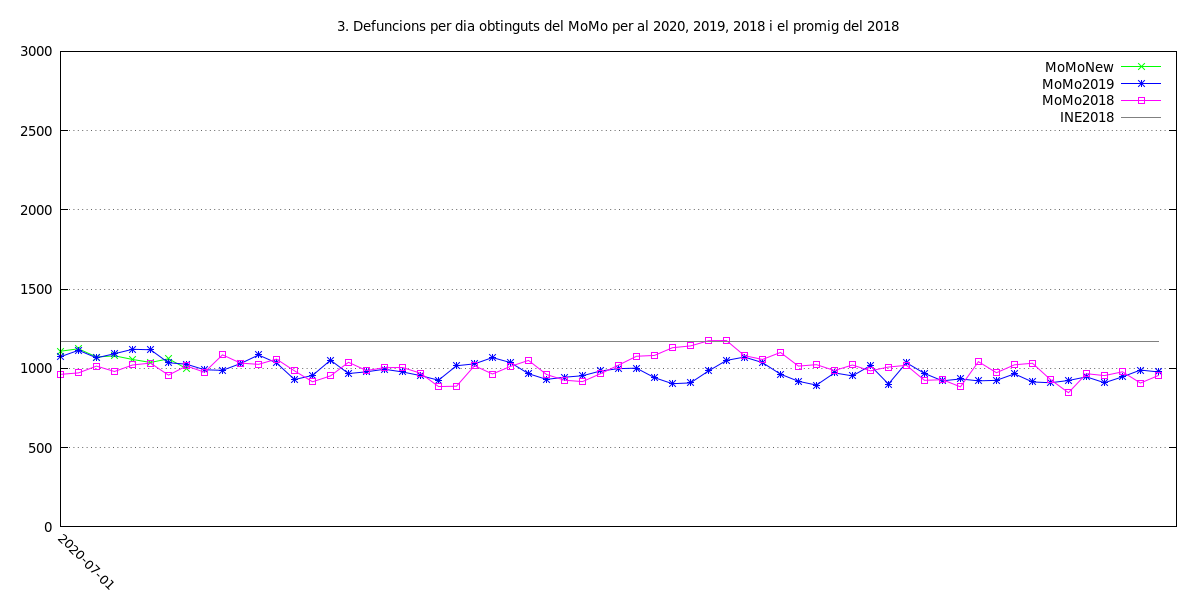
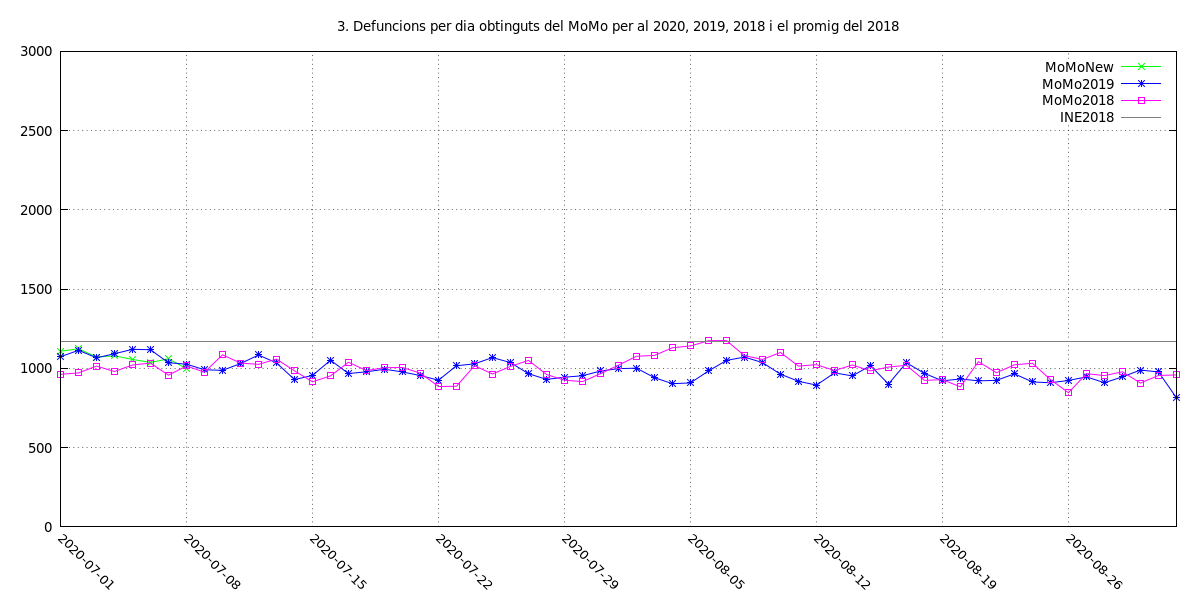
Arreglar un bug amb el tema canvi d'horari d'estiu + pintar els xtics correctament

diff --git a/program.php b/program.php
@@ -979,8 +979,9 @@ if(!file_exists("output/plot3${lang}1.png")) {
 	$momonew=import_file("middle/datanew-ok2.csv");
 	$otros=import_file("middle/7947-ok.csv");
 	$matrix=array();
-	for($i=strtotime("2020-01-01 12:00:00");$i<strtotime("2020-09-01");$i+=86400) {
+	for($i=strtotime("2020-01-01 12:00:00");$i<=strtotime("2020-09-01 12:00:00");$i+=86400) {
 		$fecha=date("Y-m-d",$i);
+		$i=strtotime($fecha." 12:00:00");
 		$matrix[$fecha]=array($fecha,"","","","","");
 	}
 	foreach($momoold as $key=>$val) {
@@ -1020,10 +1021,10 @@ if(!file_exists("output/plot3${lang}1.png")) {
 		"set xdata time",
 		"set timefmt '%Y-%m-%d'",
 		"set format x '%Y-%m-%d'",
-		"set xrange ['2020-01-01':'2020-07-01']",
+		"set xrange ['2020-01-01':'2020-09-01']",
 		"set xtic rotate by -45 scale 0",
 		"set datafile separator ';'",
-		"set xtics '2020-01-01',86400*7,'2020-07-01'",
+		"set xtics '2020-01-01',86400*7,'2020-09-01'",
 		"set output 'output/plot3${lang}1.png'",
 		"plot ['2020-01-01':'2020-03-01'] 'middle/plot3${lang}.csv' u 1:3 w lp lc 2 pt 2 ti col, '' u 1:4 w lp lc 3 pt 3 ti col, '' u 1:6 w l lc 9 ti col",
 		"set output 'output/plot3${lang}2.png'",
